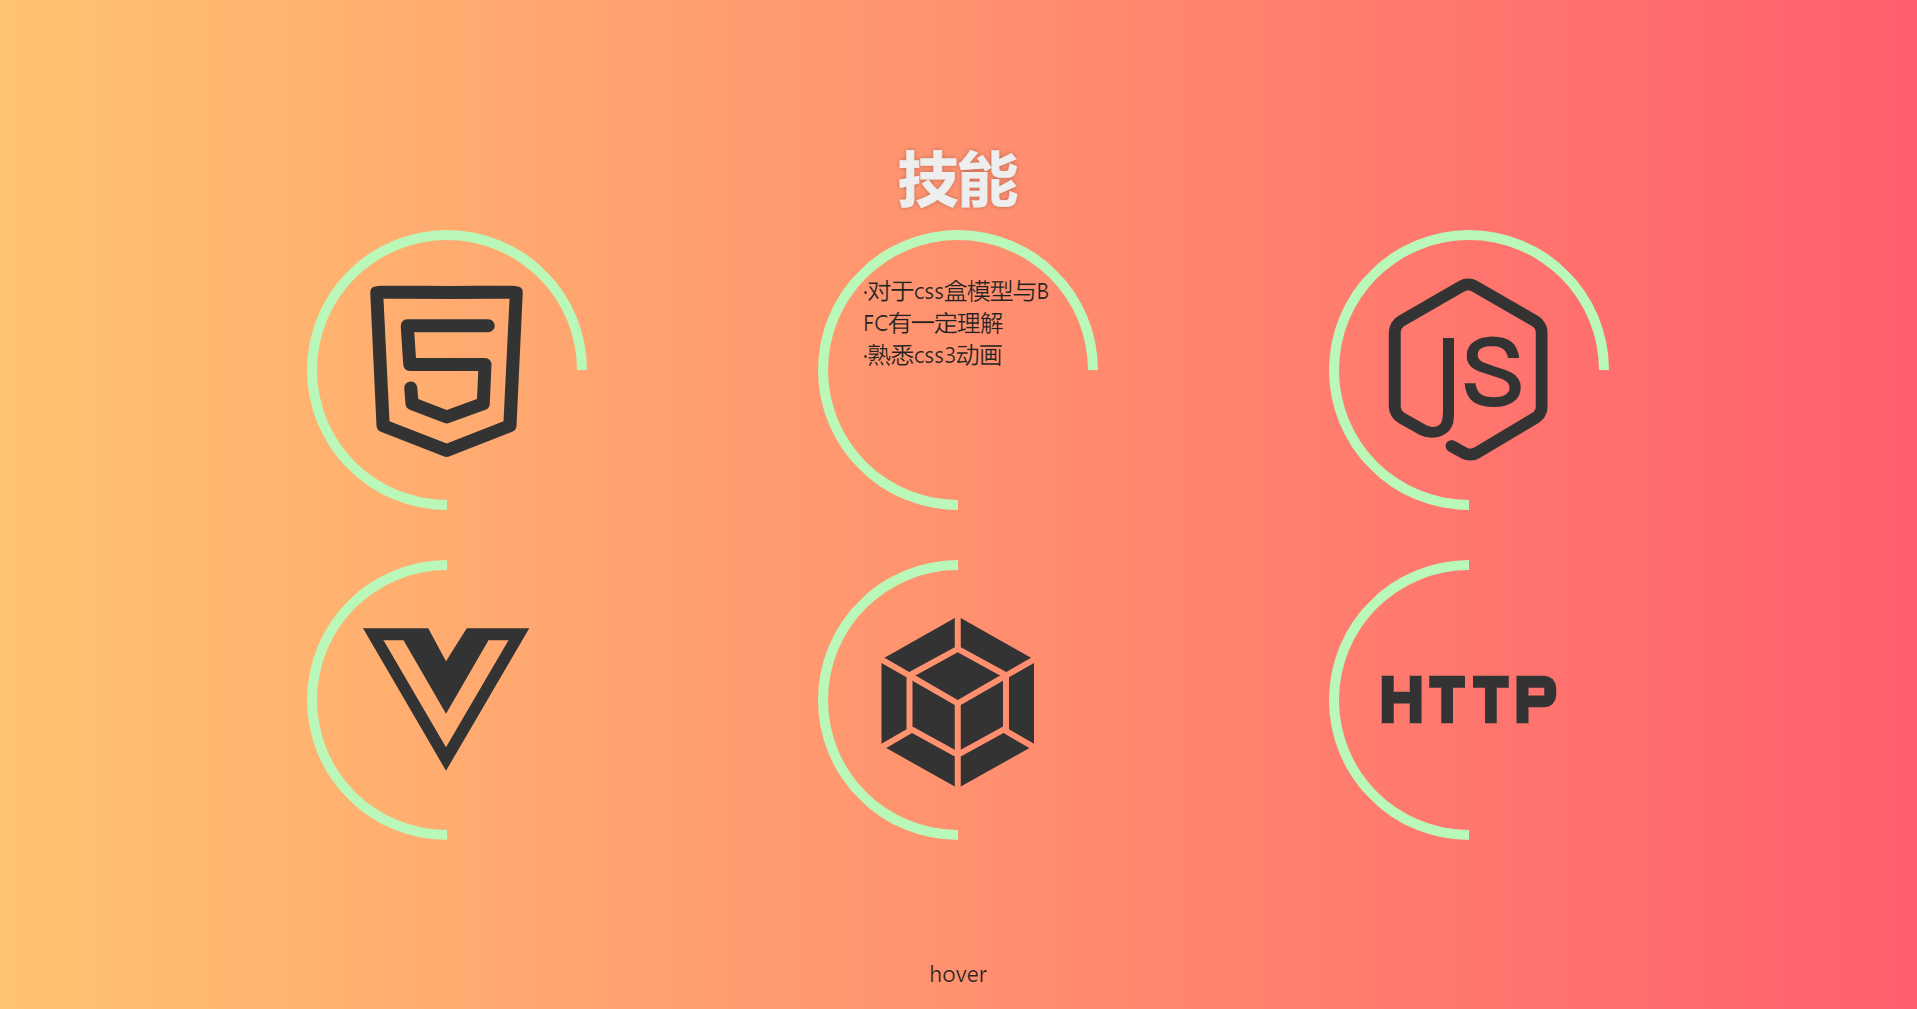
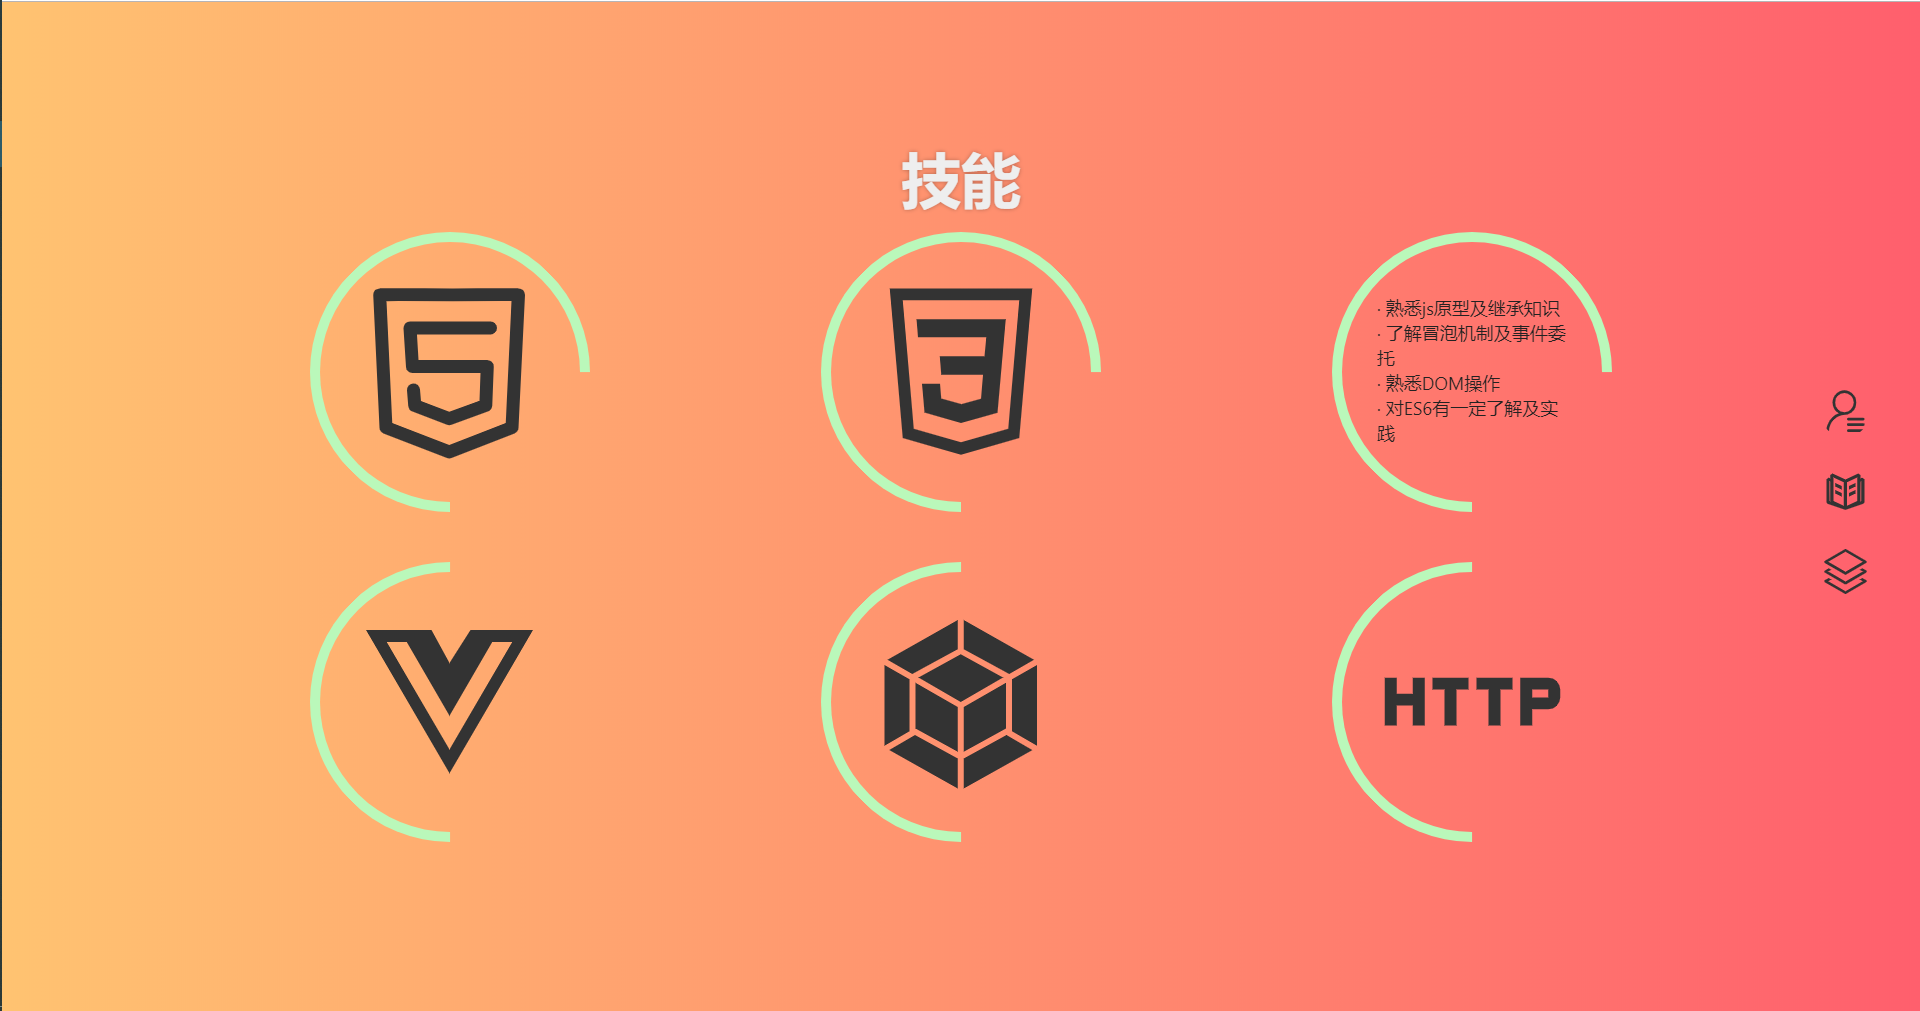
navigator

diff --git a/src/pages/skills/skills.vue b/src/pages/skills/skills.vue
@@ -12,6 +12,7 @@
               <p>· 了解html渲染解析知识</p>
               <p>· 熟悉html布局,了解响应式布局</p>
               <p>· 对于语义化标签有一定认识</p>
+              <span>HTML</span>
             </div>
           </div>
         </circleProgress>
@@ -21,8 +22,10 @@
           <div class="card">
             <img src="../../assets/icons/css3.svg" alt="css3">
             <div class="details">
-              <p>·对于css盒模型与BFC有一定理解</p>
-              <p>·熟悉css3动画</p>
+              <p>· 基础样式编写</p>
+              <p>· 对于css盒模型与BFC有一定理解</p>
+              <p>· 熟悉css3动画</p>
+              <span>CSS</span>
             </div>
           </div>
         </circleProgress>
@@ -32,7 +35,11 @@
           <div class="card">
             <img src="../../assets/icons/js.svg" alt="js">
             <div class="details">
-              <p>JS</p>
+              <p>· 熟悉js原型及继承知识</p>
+              <p>· 了解冒泡机制及事件委托</p>
+              <p>· 熟悉DOM操作</p>
+              <p>· 对ES6有一定了解及实践</p>
+              <span>JS</span>
             </div>
           </div>
         </circleProgress>
@@ -42,7 +49,11 @@
           <div class="card">
             <img src="../../assets/icons/vue.svg" alt="vue">
             <div class="details">
-              <p>VUE</p>
+              <p>· 熟悉生命周期钩子函数</p>
+              <p>· 了解组件通信方法</p>
+              <p>· 熟悉vue-router</p>
+              <p>· 对数据双向绑定有一定认识</p>
+              <span>Vue</span>
             </div>
           </div>
         </circleProgress>
@@ -52,7 +63,9 @@
           <div class="card">
             <img src="../../assets/icons/webpack.svg" alt="webpack">
             <div class="details">
-              <p>webpack</p>
+              <p>· 了解webpack常用配置</p>
+              <p>· 了解模块化，组件化开发</p>
+              <span>Webpack</span>
             </div>
           </div>
         </circleProgress>
@@ -64,7 +77,9 @@
             <div class="details">
               <p>· 熟悉常见http状态码</p>
               <p>· 了解不同请求类型的区别</p>
-              <p>· </p>
+              <p>· 了解强制缓存与对比缓存的区别</p>
+              <p>· 了解跨域常用方法</p>
+              <span>HTTP</span>
             </div>
           </div>
         </circleProgress>

diff --git a/src/App.vue b/src/App.vue
@@ -1,5 +1,6 @@
 <template>
-  <div class="app">
+  <div class="app" @touchmove="touchmove" @touchend="touchend">
+    <navigator :page="currentPage" @linkTo="linkTo" />
     <introduction
       :class="{
         currentPage: currentPage === 0,
@@ -26,6 +27,7 @@
 
 <script>
 
+import navigator from './components/navigator';
 import introduction from './pages/introduction/introduction';
 import skills from './pages/skills/skills';
 import projects from './pages/projects/projects';
@@ -49,6 +51,47 @@ export default {
           name: 'projects'
         }
       ]
+    }
+  },
+  methods: {
+    linkTo(page) {
+      this.currentPage = page;
+    },
+    touchmove (e) {
+      e.preventDefault()
+      if (this.touchStartX !== 0) return
+      this.touchStartX = e.changedTouches[0].screenY
+    },
+    touchend (e) {
+      e.preventDefault()
+
+      if (this.touchStartX === 0) return
+
+      const touchEndX = e.changedTouches[0].screenY
+
+      if (this.scrollingLock) return
+
+      if (this.touchStartX - touchEndX > 80) {
+        this.scrollingLock = true
+
+        setTimeout(() => {
+          this.scrollingLock = false
+        }, 700)
+
+        if (this.currentPage === this.routes.length - 1) return
+        else this.currentPage++
+      } else if (this.touchStartX - touchEndX < -80) {
+        this.scrollingLock = true
+
+        setTimeout(() => {
+          this.scrollingLock = false
+        }, 700)
+
+        if (this.currentPage === 0) return
+        else this.currentPage--
+      }
+
+      this.touchStartX = 0
     }
   },
   mounted() {
@@ -82,7 +125,8 @@ export default {
   components: {
     introduction,
     skills,
-    projects
+    projects,
+    navigator
   }
 }
 </script>

diff --git a/src/components/navigator.vue b/src/components/navigator.vue
@@ -1,0 +1,78 @@
+<template>
+  <div class="nav-container">
+    <button 
+      :class="{'active-link': page === 0}"
+      @click="linkTo(0)"
+    >
+      <img src="../assets/icons/个人信息.svg" alt="个人信息">
+    </button>
+    <button 
+      :class="{'active-link': page === 1}"
+      @click="linkTo(1)"
+    >
+      <img src="../assets/icons/专业知识技能.svg" alt="技能">
+    </button>
+    <button 
+      :class="{'active-link': page === 2}"
+      @click="linkTo(2)"
+    >
+      <img src="../assets/icons/项目管理.svg" alt="项目">
+    </button>
+  </div>
+</template>
+
+<script>
+export default {
+  name: "navigator",
+  props: {
+    page: {
+      type: Number,
+      default: 0
+    }
+  },
+  methods: {
+    linkTo(page) {
+      this.$emit('linkTo', page);
+    }
+  }
+};
+</script>
+
+<style lang="less">
+.nav-container {
+  width: 50px;
+  position: absolute;
+  right: 50px;
+  top: 50%;
+  margin-top: -120px;
+  z-index: 10;
+
+  button {
+    width: 50px;
+    height: 50px;
+    background-color: transparent;
+    overflow: hidden;
+    border-radius: 50%;
+    text-align: center;
+    margin-bottom: 30px;
+    cursor: pointer;
+
+    .active-link {
+      border: 1px solid #fff;
+    }
+
+    img {
+      width: 90%;
+      height: 90%;
+      vertical-align: middle;
+    }
+  }
+}
+
+@media (max-width: 430px) {
+  .nav-container {
+    display: none;
+  }
+}
+</style>
+

diff --git a/src/pages/projects/projects.vue b/src/pages/projects/projects.vue
@@ -1,13 +1,14 @@
 <template>
   <div class="page projects">
-    <h1 class="title">项目经历</h1>
+    <h3 class="title">项目经历</h3>
     <div class="project-container">
       <div class="project-item">
         <h4 class="title">个人主页</h4>
         <img src="../../assets/images/resume.png" alt="resume">
         <article>
-          <p>个人主页简历网站（网站未完成备案，暂时不能通用域名访问）</p>
-          <p>大量运用css3的知识对于内容增加了动画效果，主要使用flex做布局上的处理。
+          <p>个人主页简历网站（网站未完成备案，暂时不能通过域名访问）</p>
+          <p>项目选型是vue+webpack，服务端采用阿里云服务器和nginx Web服务器。
+            大量运用css3的知识对于主体内容添加了动画效果，主要使用flex做布局上的处理。
             并运用媒体查询做了响应式处理，对移动端做了适配。
           </p>
         </article>

diff --git a/src/pages/projects/projects.less b/src/pages/projects/projects.less
@@ -51,3 +51,54 @@
     }
   }
 }
+
+@media (max-width: 430px) {
+  .projects {
+  
+    h3.title {
+      font-size: 40px;
+      margin-bottom: 0px;
+    }
+  
+    .project-container {
+      overflow: hidden;
+      display: block;
+      position: relative;
+      height: 470px;
+  
+      .project-item {
+        position: absolute;
+        width: 100%;
+  
+        .title {
+          margin: 0;
+        }
+
+        h4.title {
+          line-height: 40px;
+        }
+  
+        article {
+          font-size: 20px;
+  
+          p {
+            text-indent: 2em;
+            font-size: 16px;
+          }
+        }
+  
+        button {
+          width: 45px;
+          height: 45px;
+          display: block;
+          margin: 10px auto;
+          position: unset;
+        }
+  
+        img {
+          width: 100%;
+        }
+      }
+    }
+  }
+}

diff --git a/src/pages/skills/skills.less b/src/pages/skills/skills.less
@@ -42,10 +42,20 @@
           backface-visibility: hidden;
           transition: all 1s ease-in-out;
           text-align: center;
+          display: flex;
+          flex-direction: column;
+          justify-content: center;
+          align-items: center;
 
           p {
             vertical-align: middle;
+            width: 100%;
             text-align: left;
+            font-size: 18px;
+          }
+
+          span {
+            display: none;
           }
         }
 
@@ -73,7 +83,18 @@
 
         .card {
           width: 120px;
-          height: 120px
+          height: 120px;
+
+          .details {
+            p {
+              display: none;
+            }
+
+            span {
+              display: block;
+            }
+          }
+
         }
       }
     }

diff --git a/src/pages/introduction/introduction.less b/src/pages/introduction/introduction.less
@@ -56,20 +56,19 @@
 @media (max-width: 430px) {
 .introduction {
   .avatar {
-    width: 170px;
-    height: 170px;
+    width: 160px;
+    height: 160px;
     margin-top: 0px;
   }
 
   .name {
     margin-top: 20px;
-    font-size: 35px;
+    font-size: 30px;
   }
 
   .description {
-    color: @gray-dark-color;
-    line-height: 50px;
-    font-size: 20px;
+    line-height: 30px;
+    font-size: 16px;
   }
 
   .information {

diff --git a/index.html b/index.html
@@ -3,7 +3,7 @@
   <head>
     <meta charset="utf-8">
     <meta name="renderer" content="webkit">
-    <meta name="viewport" content="width=device-width, initial-scale=1, user-scalable=no">
+    <meta name="viewport" content="width=device-width, initial-scale=1, user-scalable=no, maximum-scale=1.0">
     <title>resume</title>
   </head>
   <body>
